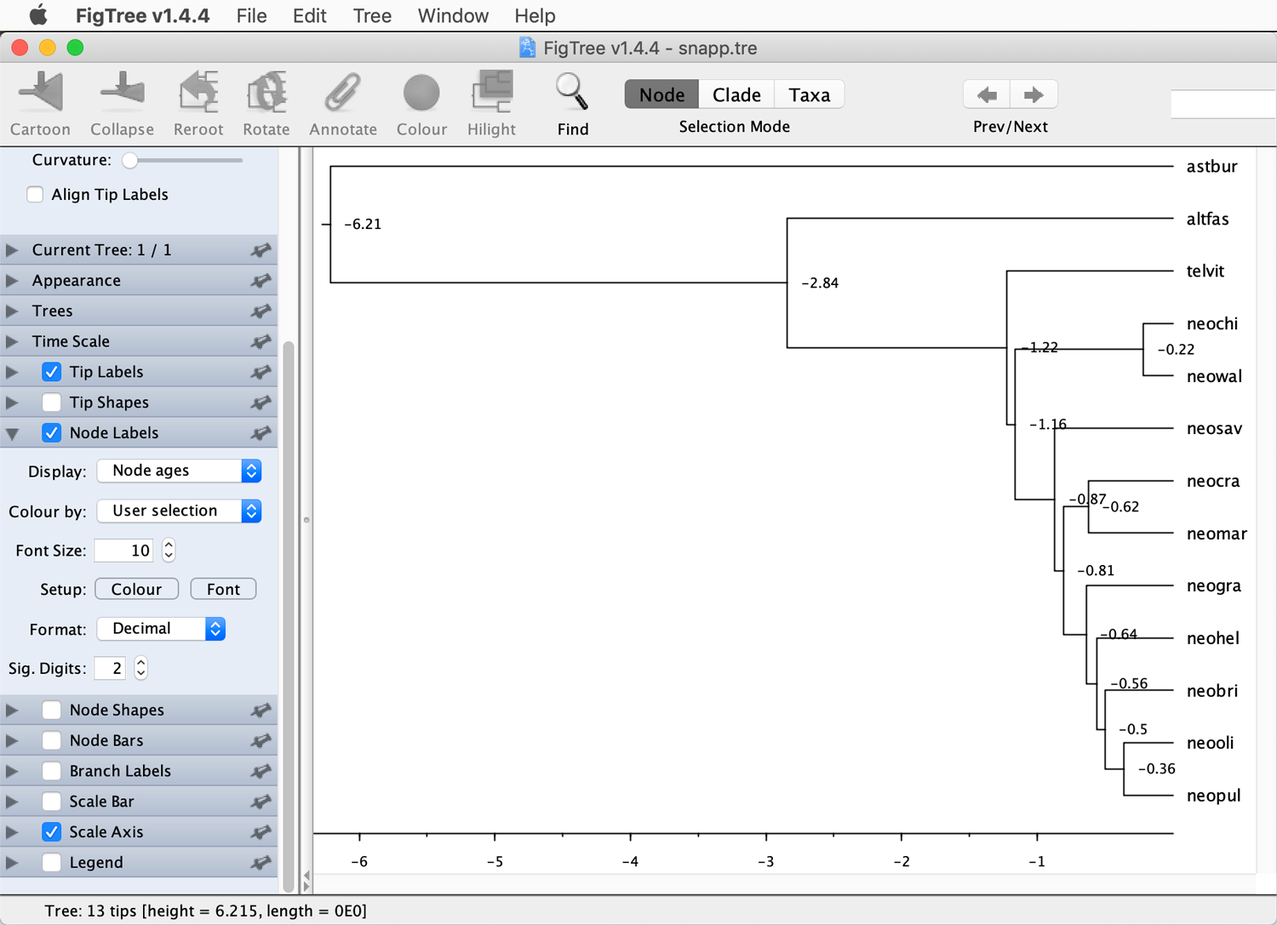
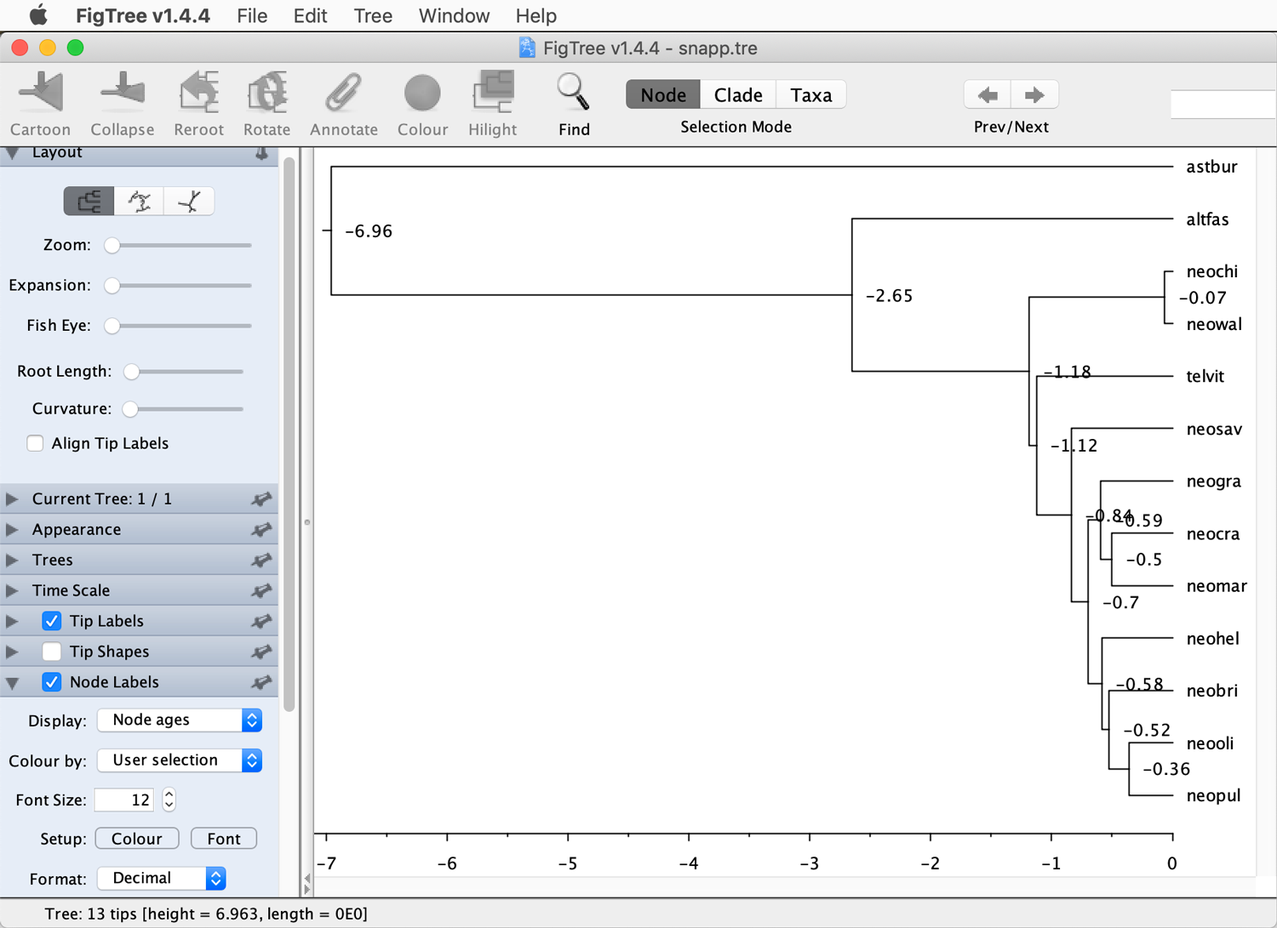
update of divergence time estimation with snp data

diff --git a/divergence_time_estimation_with_snp_data/README.md b/divergence_time_estimation_with_snp_data/README.md
@@ -100,9 +100,9 @@ Based on simulations, we tested the performance of SNAPP with a range of dataset
 		
 	or
 	
-		wget https://raw.githubusercontent.com/ForBioPhylogenomics/tutorials/main/divergence_time_estimation_with_snp_data/data/NC_031969.f5.sub4.vcf
+		wget https://raw.githubusercontent.com/ForBioPhylogenomics/tutorials/main/week2_res/NC_031969.f5.sub4.vcf
 
-As mentioned above and in tutorial [Species-Tree Inference with SNP Data](../species_tree_inference_with_snp_data/README.md), the dataset in file `NC_031969.f5.sub4.vcf` contains SNP data for two individuals per species. To reduce the run time for SNAPP, we are going to generate another version of the same dataset that is reduced to only a single individual per species.
+As mentioned above and in tutorial [Species-Tree Inference with SNP Data](../species_tree_inference_with_snp_data/README.md), the dataset in file `NC_031969.f5.sub4.vcf` contains SNP data for two individuals per species. To reduce the run time for SNAPP, we are going to produce another version of the same dataset that is reduced to only a single individual per species.
 
 * To exclude the individuals "IZA1", "AXD5", "JBD5", "JUI1", "KHA9", "IVF1", "JWH1", "JWG8", "JWH3", "JWH5", "ISA6", "IYA4", and "KFD4" (these were selected because they have more missing data than the other individuals of each species) from a new file named `NC_031969.f5.sub5.vcf`, use the following commands:
 
@@ -111,26 +111,22 @@ As mentioned above and in tutorial [Species-Tree Inference with SNP Data](../spe
 		
 	The reduction of individuals might have led to some sites becoming monomorphic for either the reference or the alternate allele. Some sites might also have no data left for one or more of the species, given that these are now represented by only one instead of two individuals. These could now be excluded these sites again with bcftools, for example with the `bcftools view` option `-e 'AC==0 || AC==AN || F_MISSING > 0.0'`. However, this is not necessary because the `snapp_prep.rb` script, which will be used to write the XML file for SNAPP, will automatically exclude these sites anyway.
 	
-	 **Question 1:** How many SNPs are now left in file `NC_031969.f5.sub5.vcf`? [(see answer)](#q1)
+	 **Question 1:** How many SNPs are left in file `NC_031969.f5.sub5.vcf`? [(see answer)](#q1)
 
-* Download the script [`snapp_prep.rb`](https://raw.githubusercontent.com/mmatschiner/snapp_prep/master/snapp_prep.rb) from github, either by clicking on the link or by using the following command:
+* Download the script `snapp_prep.rb` from GitHub:
 
 		wget https://raw.githubusercontent.com/mmatschiner/snapp_prep/master/snapp_prep.rb
 		
-* Then, to see the options available for generating SNAPP input files with `snapp_prep.rb`, have a look at the help text of the script by using the following commands:
+* To see the options available for generating SNAPP input files with `snapp_prep.rb`, have a look at the help text of the script by using the following commands:
 
 		module load Ruby/2.7.2-GCCcore-9.3.0
 		ruby snapp_prep.rb -h
 		
 	You'll see that `snapp_prep.rb` can write XML files for either SNAPP or SNAPPER (option `-a`), and that it accepts input either in Phylip (with option `-p`) or VCF (option `-v`) format. In addition, the script requires a table file (option `-t`) in which individuals are assigned to species, and a constraint file (option `-c`) in which age constraints for selected divergence events are specified. None of the other options are required, but these can be useful if you need to specify a starting tree (option `-t`) because SNAPP fails to find a suitable starting tree itself, if you want to increase or decrease the default length (500,000 iterations) of the MCMC chain (option `-l`), or if you want to limit the dataset to a certain number of SNPs to reduce the run time (option `-m`). 
 	
-* Examples for the table and constraint files can be found on the [github repository for `snapp_prep.rb`](https://github.com/mmatschiner/snapp_prep). Have a look at these example files; the example table file is named [`example.spc.txt`](https://github.com/mmatschiner/snapp_prep/blob/master/example.spc.txt) and the example constraint file is named [`example.con.txt`](https://github.com/mmatschiner/snapp_prep/blob/master/example.con.txt).
+* Examples for the table and constraint files can be found on the [GitHub repository for `snapp_prep.rb`](https://github.com/mmatschiner/snapp_prep). Have a look at these example files; the example table file is named [`example.spc.txt`](https://github.com/mmatschiner/snapp_prep/blob/master/example.spc.txt) and the example constraint file is named [`example.con.txt`](https://github.com/mmatschiner/snapp_prep/blob/master/example.con.txt).
 
-* To prepare the table file assigning individuals to species, open a new file named `individuals.txt` with a text editor available on Saga, such as Emacs, Vim, or Nano. You could also write the file with a GUI text editor on a local computer, but then the file would need to be copied to Saga afterwards, e.g. with `scp`. To open a new file named `individuals.txt` with Emacs, type the following command (for other text editors, simply replace "emacs" with "vim" or "nano"):
-
-		emacs individuals.txt
-
-* Write the following text to this new file:
+* To prepare the table file assigning individuals to species, open a new file named `individuals.txt` with a text editor available on Saga, and write the following text to this new file:
 
 		species	individual
 		astbur	IZC5
@@ -147,21 +143,19 @@ As mentioned above and in tutorial [Species-Tree Inference with SNP Data](../spe
 		neosav	ISA8
 		neowal	KFD2
 
-* Save and close the file (if using Emacs, the rather complicated key combination to do so is Ctrl-X Ctrl-S Ctrl-X Ctrl-C).
-
-* For the constraint file, we'll need to specify at least one age constraint for a divergence among the 13 cichlid species. For this, we can refer to the results of the analysis with the multi-species coalescent model in tutorial [Bayesian Species-Tree Inference](../bayesian_species_tree_inference/README.md). In that tutorial, the divergence of *Astatotilapia burtoni* ("astbur") and the *Neolamprologus* species was estimated at 6.2666 Ma with a 95% HPD interval from 4.8225 to 7.9049 Ma (if you'ld like to look up these results you can find them in file [`starbeast_species.tre`](data/starbeast_species.tre)). We can approximate this mean and confidence interval with a lognormal distribution centered at 6.2666 Ma that has a standard deviation (in real space) of 0.13. In addition, we could also constrain the first divergence among the species *Neolamprologus brichardi* ("neobri"), *Neolamprologus gracilis* ("neogra"), *Neolamprologus marunguensis* ("neomar"), and *Neolamprologus olivaceus* ("neooli") according to the results of this earlier analysis; however, it is likely that this divergence event would be more precisely estimated with the current SNP dataset. Thus, we are only going to constrain the age of a single node: the divergence of *Astatotilapia burtoni* ("astbur") from the species of the tribe Lamprologini.
+* For the constraint file, we'll need to specify at least one age constraint for a divergence among the 13 cichlid species. For this, we can refer to the results of the analysis with the multi-species coalescent model in tutorial [Bayesian Species-Tree Inference](../bayesian_species_tree_inference/README.md). In that tutorial, the divergence of *Astatotilapia burtoni* ("astbur") and the *Neolamprologus* species was estimated at 7.02 Ma with a 95% HPD interval from 5.41 to 9.13 Ma. We can approximate this mean and confidence interval with a lognormal distribution centered at 7.02 Ma that has a standard deviation (in real space) of 0.13. In addition, we could also constrain the first divergence among the species *Neolamprologus brichardi* ("neobri"), *Neolamprologus gracilis* ("neogra"), *Neolamprologus marunguensis* ("neomar"), and *Neolamprologus olivaceus* ("neooli") according to the results of this earlier analysis; however, it is likely that this divergence event would be more precisely estimated with the current SNP dataset. Thus, we are only going to constrain the age of a single node: the divergence of *Astatotilapia burtoni* ("astbur") from the species of the tribe Lamprologini.
 
 	To write this single age constraint to a constraint file, write the following text to a new file named `constraints.txt`:
 
-		lognormal(0,6.2666,0.13)	crown	astbur,altfas,telvit,neobri,neochi,neocra,neogra,neohel,neomar,neooli,neopul,neosav,neowal
+		lognormal(0,7.02,0.13)	crown	astbur,altfas,telvit,neobri,neochi,neocra,neogra,neohel,neomar,neooli,neopul,neosav,neowal
 		
-	Note that the above line contains three character strings that are delimited with white space (tabs or spaces). The first of the three character strings specifies that a lognormal distribution with an offset of 0, a mean of 6.2666, and a standard deviation (in real space) of 0.13 should be used for the constraint. The second character string ("crown") specifies that the crown divergence of the clade should be constrained rather than the stem divergence (this would be the time at which the clade diverged from its sister group). Finally, the third character string simply lists all species included in the constrained clade, separated by commas. Because the constraint used here applies to the very first divergence of the phylogeny (the root), all species names are listed in the third character string.
+	Note that the above line contains three character strings that are delimited with white space (tabs or spaces). The first of the three character strings specifies that a lognormal distribution with an offset of 0, a mean of 7.02, and a standard deviation (in real space) of 0.13 should be used for the constraint. The second character string ("crown") specifies that the crown divergence of the clade should be constrained rather than the stem divergence (this would be the time at which the clade diverged from its sister group). Finally, the third character string simply lists all species included in the constrained clade, separated by commas. Because the constraint used here applies to the very first divergence of the phylogeny (the root), all species names are listed in the third character string.
 
 	**Question 2:** Can you think of a way how the exact same age calibration could be specified differently? [(see answer)](#q2)
 
 * With the VCF file `NC_031969.f5.sub5.vcf`, the table file, and the constraints file ready, we can now prepare the input file for SNAPP with the script `snapp_prep.rb`. To limit the dataset to 1,000 randomly selected SNPs and to set a chain length of 100,000 MCMC iterations, we'll use the options `-m 1000` and `-l 100000`, respectively. To specify that the XML file should be for SNAPP rather than SNAPPER, option `-a` does not need to be specified because the SNAPP format is produced by default. Thus, use the following command to generate the XML input file for SNAPP:
 
-		srun --ntasks=1 --mem-per-cpu=1G --time=00:01:00 --account=nn9458k --pty ruby snapp_prep.rb -v NC_031969.f5.sub5.vcf -t samples.txt -c constraints.txt -m 1000 -l 100000
+		srun --ntasks=1 --mem-per-cpu=1G --time=00:01:00 --account=nn9458k --pty ruby snapp_prep.rb -v NC_031969.f5.sub5.vcf -t individuals.txt -c constraints.txt -m 1000 -l 100000
 
 	**Question 3:** How many sites useful for SNAPP did the dataset contain after we had reduced it to a single individual per species? [(see answer)](#q3)
 		
@@ -169,7 +163,7 @@ As mentioned above and in tutorial [Species-Tree Inference with SNP Data](../spe
 		
 * The script `snapp_prep.rb` should have written a file named `snapp.xml`. You could open that, for example with `less -S snapp.xml` and read some of the annotations if you'ld like to know more about the settings that we are about to use with SNAPP.
 		
-To "run SNAPP", we actually run BEAST2, either using the GUI on a local computer, or the command-line version on either a local computer or Saga (the latter is recommended). In all cases, the analysis can be sped up by using multiple CPUs, as SNAPP analyses are highly parallelizable. Thus, with e.g. four CPUs available that are all used for the SNAPP analysis, this analysis should take only about a fourth of the time that would be required with a single CPU. When running SNAPP analyses on a server such as Saga, one could even use tens of CPUs simultaneously, which would shorten SNAPP's run times tremendously. To start the analysis for example on four CPUs with the GUI version of BEAST2, you would select "4" from the drop-down menu next to "Thread pool size" as shown in the next screenshot (but this is not needed now; read on).<p align="center"><img src="img/beast1.png" alt="BEAST" width="500"></p>However, it may be more convenient to use the command-line version of BEAST2 that is installed on Saga. Running the analysis on Saga will also allow us to use eight CPUs to speed up the analysis.
+To "run SNAPP", we actually run BEAST2. The analysis can be sped up by using multiple CPUs, as SNAPP analyses are highly parallelizable. Thus, with e.g. four CPUs available that are all used for the SNAPP analysis, this analysis should take only about a fourth of the time that would be required with a single CPU. When running SNAPP analyses on a server such as Saga, one could even use tens of CPUs simultaneously, which would shorten SNAPP's run times tremendously. We will here use 16 CPUs on Saga (which is the maximum for most jobs on Saga) to speed up the analysis.
 
 * Write a Slurm script named `run_snapp.slurm` with the following content to prepare the SNAPP analysis:
 
@@ -182,7 +176,8 @@ To "run SNAPP", we actually run BEAST2, either using the GUI on a local computer
 		#SBATCH --time=2:00:00
 		#
 		# Processor and memory usage:
-		#SBATCH --ntasks=8
+		#SBATCH --ntasks=1
+		#SBATCH --cpus-per-task=16
 		#SBATCH --mem-per-cpu=1G
 		#
 		# Accounting:
@@ -200,7 +195,7 @@ To "run SNAPP", we actually run BEAST2, either using the GUI on a local computer
 		module load Beast/2.6.4-GCC-9.3.0
 
 		# Run snapp.
-		beast -threads 8 snapp.xml
+		beast -threads 16 snapp.xml
 
 * Submit the Slurm script with `sbatch`:
 
@@ -220,7 +215,7 @@ While the SNAPP analysis is running, we will in parallel set up an analysis with
 
 		srun --ntasks=1 --mem-per-cpu=1G --time=00:01:00 --account=nn9458k --pty ruby snapp_prep.rb -a SNAPPER -v NC_031969.f5.sub5.vcf -t individuals.txt -c constraints.txt -m 1000 -l 100000
 		
-	After a few seconds, this should have written a new XML file named `snapper.xml`
+	This should produce a new XML file named `snapper.xml`
 	
 * Prepare a new Slurm script to launch the SNAPPER analysis, by copying the Slurm script for SNAPP:
 
@@ -237,7 +232,8 @@ While the SNAPP analysis is running, we will in parallel set up an analysis with
 		#SBATCH --time=2:00:00
 		#
 		# Processor and memory usage:
-		#SBATCH --ntasks=8
+		#SBATCH --ntasks=1
+		#SBATCH --cpus-per-task=16
 		#SBATCH --mem-per-cpu=1G
 		#
 		# Accounting:
@@ -255,7 +251,7 @@ While the SNAPP analysis is running, we will in parallel set up an analysis with
 		module load Beast/2.6.4-GCC-9.3.0
 
 		# Run snapper.
-		beast -threads 8 snapper.xml
+		beast -threads 16 snapper.xml
 
 	(note that in this case, the command `cat run_snapp.slurm | sed "s/snapp/snapper/g" > run_snapper.slurm` would have produced the same result).
 
@@ -320,7 +316,7 @@ While the SNAPPER analysis (and probably also still the SNAPP analysis) are runn
 <a name="interpretation"></a>
 ## Interpretation of SNAPP results
 
-* Once the SNAPP analysis has completed, download the file `snapp.log` to your local computer with `scp` and open it in Tracer. The Tracer window should then display run statistics similar to those shown in the next screenshot.<p align="center"><img src="img/tracer1.png" alt="Tracer" width="700"></p>You'll see that some low ESS values indicate that the MCMC chain has not yet reached stationarity and that the analysis should ideally have been performed with more MCMC iterations. For our interpretation here, however, we'll assume that the degree of stationarity is sufficient. What you also should notice is that the list of parameters on the left-hand side of the window is now much shorter than it usually is with results of BEAST2 analyses. In fact, only three parameters are shown: The speciation rate ("lambda"), the age of the root of the species tree ("treeHeightLogger"), and the substitution rate ("clockRate"). Note that the substitution rate is not comparable to a genome-wide rate due to ascertainment bias in the SNP dataset, even though SNAPP by default applies an ascertainment-bias correction (see [Bryant et al. 2012](https://academic.oup.com/mbe/article/29/8/1917/1045283) for details). However, one model parameter is not included in the log output yet, namely the population size. Recall that by using script `snapp_prep.rb` to generate the XML file, we implemented a model in which the population sizes of all branches are set to be identical to each other. Thus, if the population sizes had been included in the log file, this file would contain a large number of columns with identical information. To avoid this, the output of the population sizes to the log file has been disabled by `snapp_prep.rb`. However, the population size estimates are still available because they were instead written to the tree file `snapp.trees`, and we can now add them to the log file `snapp.log` using the Ruby script `add_theta_to_log.rb`. Thus, download the script [`add_theta_to_log.rb`](https://raw.githubusercontent.com/mmatschiner/snapp_prep/master/add_theta_to_log.rb) from the github repository for `snapp_prep.rb`, by executing the following command on Saga:
+* Once the SNAPP analysis has completed, download the file `snapp.log` to your local computer with `scp` and open it in Tracer. The Tracer window should then display run statistics similar to those shown in the next screenshot.<p align="center"><img src="img/tracer1.png" alt="Tracer" width="700"></p>You'll see that some low ESS values indicate that the MCMC chain has not yet reached stationarity and that the analysis should ideally have been performed with more MCMC iterations. For our interpretation here, however, we'll assume that the degree of stationarity is sufficient. What you also should notice is that the list of parameters on the left-hand side of the window is now much shorter than it usually is with results of BEAST2 analyses. In fact, only three parameters are shown: The speciation rate ("lambda"), the age of the root of the species tree ("treeHeightLogger"), and the substitution rate ("clockRate"). Note that the substitution rate is not comparable to a genome-wide rate due to ascertainment bias in the SNP dataset, even though SNAPP by default applies an ascertainment-bias correction (see [Bryant et al. 2012](https://doi.org/10.1093/molbev/mss086) for details). However, one model parameter is not included in the log output yet, namely the population size. Recall that by using script `snapp_prep.rb` to generate the XML file, we implemented a model in which the population sizes of all branches are set to be identical to each other. Thus, if the population sizes had been included in the log file, this file would contain a large number of columns with identical information. To avoid this, the output of the population sizes to the log file has been disabled by `snapp_prep.rb`. However, the population size estimates are still available because they were instead written to the tree file `snapp.trees`, and we can now add them to the log file `snapp.log` using the Ruby script `add_theta_to_log.rb`. Thus, download the script `add_theta_to_log.rb` from the GitHub repository for `snapp_prep.rb` to your current directory on Saga:
 
 		wget https://raw.githubusercontent.com/mmatschiner/snapp_prep/master/add_theta_to_log.rb
 		
@@ -328,7 +324,7 @@ While the SNAPPER analysis (and probably also still the SNAPP analysis) are runn
 
 		ruby add_theta_to_log.rb -h
 		
-	You'll see that this script requires four command-line arguments: The names of the log and tree input files, the name of an output file, as well as an estimate for the generation time. The latter is required to calculate an estimate of the effective population size, for which `add_theta_to_log.rb` uses the equation <i>N</i><sub>e</sub> = Theta &div; (4 &times; <i>r</i> &div; <i>n</i><sub>g</sub>), where <i>r</i> is the substitution-rate estimate (= the rate of the strict clock) and <i>n</i><sub>g</sub> is the number of generations per time unit (more details are given in [Stange et al. 2018](https://academic.oup.com/sysbio/advance-article/doi/10.1093/sysbio/syy006/4827616)).
+	You'll see that this script requires four command-line arguments: The names of the log and tree input files, the name of an output file, as well as an estimate for the generation time. The latter is required to calculate an estimate of the effective population size, for which `add_theta_to_log.rb` uses the equation <i>N</i><sub>e</sub> = Theta &div; (4 &times; <i>r</i> &div; <i>n</i><sub>g</sub>), where <i>r</i> is the substitution-rate estimate (= the rate of the strict clock) and <i>n</i><sub>g</sub> is the number of generations per time unit (more details are given in [Stange et al. 2018](https://doi.org/10.1093/sysbio/syy006)).
 	
 * We'll here assume (as in other tutorials) that the generation time of cichlids is three years, and we'll name the output file `snapp_w_popsize.log`. Thus use the following command to run script `add_theta_to_log.rb`:
 
@@ -336,32 +332,34 @@ While the SNAPPER analysis (and probably also still the SNAPP analysis) are runn
 
 * Then, download file `snapp_w_popsize.log` to your local computer and open it also in Tracer. You should see that "theta" and "population_size" have now been added to the list of parameters, as shown in the next screenshot.<p align="center"><img src="img/tracer2.png" alt="Tracer" width="700"></p>
 
-* Select both "clockRate" and "theta" from the list of parameters, click the tab for "Joint-Marginal" at the top right, and remove the tick at the bottom of the panel next to "Sample only". You should then see that both of these parameters are highly correlated, as shown in the next screenshot.<p align="center"><img src="img/tracer3.png" alt="Tracer" width="700"></p>Note that both of these estimates should not be taken as being representative for the whole genome due to ascertainment bias. Because invariant sites are not included in a SNP dataset, this SNP dataset necessarily appears more variable than the whole-genome dataset from which it was derived, and thus the substitution rate of the SNP data appears to be higher than the rate would be if it was averaged over the entire genome. Nevertheless, our simulations in [Stange et al. (2018)](https://academic.oup.com/sysbio/advance-article/doi/10.1093/sysbio/syy006/4827616) have shown that the population-size estimates of SNAPP are actually reliable.
+* Select both "clockRate" and "theta" from the list of parameters, click the tab for "Joint-Marginal" at the top right, and remove the tick at the bottom of the panel next to "Sample only". You should then see that both of these parameters are highly correlated, as shown in the next screenshot.<p align="center"><img src="img/tracer3.png" alt="Tracer" width="700"></p>Note that both of these estimates should not be taken as being representative for the whole genome due to ascertainment bias. Because invariant sites are not included in a SNP dataset, this SNP dataset necessarily appears more variable than the whole-genome dataset from which it was derived, and thus the substitution rate of the SNP data appears to be higher than the rate would be if it was averaged over the entire genome. Nevertheless, our simulations in [Stange et al. (2018)](https://doi.org/10.1093/sysbio/syy006) have shown that the population-size estimates of SNAPP are actually reliable.
 
 * Select "population_size" from the list of parameters and click on the "Estimates" tab to see summary information and a histogram for the population-size estimate, as shown in the next screenshot.<p align="center"><img src="img/tracer4.png" alt="Tracer" width="700"></p>
 	
-	**Question 6 (if you already did tutorial Bayesian Species-Tree Inference):** How does this estimate of the population size of Lake Tanganyika cichlid fishes compare to that assumed in tutorial [Bayesian Species-Tree Inference](../bayesian_species_tree_inference/README.md)? [(see answer)](#q6)
+	**Question 6:** How does this estimate of the population size of Lake Tanganyika cichlid fishes compare to that assumed in tutorial [Bayesian Species-Tree Inference](../bayesian_species_tree_inference/README.md)? [(see answer)](#q6)
 
-* Next, download the file `snapp.trees` from Saga to your local computer and open it in the software Densitree from the BEAST2 package (it can be found in the same directory as the GUI versions of BEAST2 and BEAUti) to visualize the full set of posterior trees sampled by SNAPP, as shown in the next screenshot.<p align="center"><img src="img/densitree1.png" alt="DensiTree" width="600"></p> You should see that not all posterior trees share the same topology, indicating remaining uncertainty in the relationships of the 13 cichlid species. In particular, the relationships of *Telmatochromis vittatus* ("telvit") appear ambiguous, as this species is placed next to *Neolamprologus walteri* ("neowal") and *Neolamprologus chitamwebwai* ("neochi") in some of the posterior trees, but apparently closer to the remaining *Neolamprologus* species or ancestral to all of them in the other posterior trees. The relationships among the five species *Neolamprologus brichardi* ("neobri"), *Neolamprologus olivaceous* ("neooli"), *Neolamprologus pulcher* ("neopul"), *Neolamprologus helianthus* ("neohel"), and *Neolamprologus gracilis* ("neogra") also appear uncertain.
+* Next, download the file `snapp.trees` from Saga to your local computer and open it in the software Densitree from the BEAST2 package (it can be found in the same directory as the GUI versions of BEAST2 and BEAUti) to visualize the full set of posterior trees sampled by SNAPP, as shown in the next screenshot.<p align="center"><img src="img/densitree1.png" alt="DensiTree" width="700"></p> You should see that not all posterior trees share the same topology, indicating remaining uncertainty in the relationships of the 13 cichlid species. In particular, the relationships of *Telmatochromis vittatus* ("telvit") appear ambiguous, as this species is placed next to *Neolamprologus walteri* ("neowal") and *Neolamprologus chitamwebwai* ("neochi") in some of the posterior trees, but apparently closer to the remaining *Neolamprologus* species or ancestral to all of them in the other posterior trees. The relationships among the five species *Neolamprologus brichardi* ("neobri"), *Neolamprologus olivaceous* ("neooli"), *Neolamprologus pulcher* ("neopul"), *Neolamprologus helianthus* ("neohel"), and *Neolamprologus gracilis* ("neogra") also appear uncertain.
 
-* Also quantify the posterior probabilities of clades as node support in a maximum-clade-credibility tree using TreeAnnotator on Saga. Set the burnin percentage to 10, choose mean heights as node heights, select `snapp.trees` as the input file, and name the output file `snapp.tre`:
+* Also quantify the posterior probabilities of clades as node support in a maximum-clade-credibility tree using TreeAnnotator on Saga. Set the burnin percentage to 10, choose mean heights as node heights, select `snapp.trees` as the input file, and name the output file "snapp.tre":
 
 		srun --ntasks=1 --mem-per-cpu=1G --time=00:01:00 --account=nn9458k --pty treeannotator -burnin 10 -heights mean snapp.trees snapp.tre
 
 
 * Download file `snapp.tre` from Saga to your local computer with `scp` and open it in FigTree.
 
-* Display the "posterior" node support values as node labels, as shown in the screenshot below.<p align="center"><img src="img/figtree1.png" alt="FigTree" width="600"></p> The posterior probabilities for the different clades support the interpretation based on the Densitree plot made above: The position of *Telmatochromis vittatus* ("telvit") is uncertain, as are the relationships among the five species *Neolamprologus brichardi* ("neobri"), *Neolamprologus olivaceous* ("neooli"), *Neolamprologus pulcher* ("neopul"), *Neolamprologus helianthus* ("neohel"), and *Neolamprologus gracilis* ("neogra"). However, the visualization in FigTree also shows that a clade comprising the three species *Neolamprologus brichardi* ("neobri"), *Neolamprologus olivaceous* ("neooli"), and *Neolamprologus pulcher* ("neopul") is actually well supported; this has not been apparent in DensiTree.
+* Display the "posterior" node support values as node labels, as shown in the screenshot below.<p align="center"><img src="img/figtree1.png" alt="FigTree" width="700"></p>The posterior probabilities for the different clades support the interpretation based on the Densitree plot made above: The position of *Telmatochromis vittatus* ("telvit") is uncertain, and the placement of *Neolamprologus brichardi* ("neobri") as the sister to a clade comprising *Neolamprologus olivaceous* ("neooli") and *Neolamprologus pulcher* ("neopul") is also poorly supported. However, the visualization in FigTree also shows that a clade comprising the three species *Neolamprologus brichardi* ("neobri"), *Neolamprologus olivaceous* ("neooli"), and *Neolamprologus pulcher* ("neopul") is actually well supported; this has not been apparent in DensiTree.
 	
-	**Question 7 (if you already did tutorial Species-Tree Inference with SNP Data):** Is the species-tree topology estimated with SNAPP concordant with that estimated with SVDQuartets in tutorial [Species-Tree Inference with SNP Data](../species_tree_inference_with_snp_data/README.md)? [(see answer)](#q7)
+	**Question 7:** Is the species-tree topology estimated with SNAPP concordant with that estimated with SVDQuartets in tutorial [Species-Tree Inference with SNP Data](../species_tree_inference_with_snp_data/README.md)? [(see answer)](#q7)
 	
-	**Question 8 (if you already did tutorial Bayesian Species-Tree Inference):** How does the divergence-time estimate for *Neolamprologus marunguensis* ("neomar"), *Neolamprologus gracilis* ("neogra"), *Neolamprologus brichardi* ("neobri"), and *Neolamprologus olivaceous* ("neooli") compare to that obtained with StarBEAST2 in tutorial [Bayesian Species-Tree Inference](bayesian_species_tree_inference/README.md)? [(see answer)](#q8)
+	**Question 8:** How does the divergence-time estimate for *Neolamprologus marunguensis* ("neomar"), *Neolamprologus gracilis* ("neogra"), *Neolamprologus brichardi* ("neobri"), and *Neolamprologus olivaceous* ("neooli") compare to that obtained with StarBEAST2 in tutorial [Bayesian Species-Tree Inference](bayesian_species_tree_inference/README.md)? [(see answer)](#q8)
 
 Despite the remaining uncertainty in the relationships among the *Neolamprologus* species, the SNAPP analysis has been valuable as it allowed us to estimate an average population size for species of the tribe Lamprologini, and improved the estimates of divergence times within the group.
 
 
 <a name="comparison"></a>
 ## Comparison of results obtained with SNAPP and SNAPPER
+
+<!--XXX This needs to be continued when the SNAPPER bugs are solved XXX-->
 
 * When the SNAPPER analyses have finished on Saga, add the population size to files `snapper.log` and `snapper2.log`, as before for `snapp.log`:
 
@@ -388,14 +386,14 @@ Despite the remaining uncertainty in the relationships among the *Neolamprologus
 
 * **Question 1:** 65,325 SNPs should now remain in the filtered dataset in file `NC_031969.f5.sub5.vcf`, which is more than sufficient for a phylogenetic analysis with SNAPP. To see the number of SNPs in this VCF file, you can use the the following command:
 
-		srun --ntasks=1 --mem-per-cpu=1G --time=00:01:00 --account=nn9458k --pty bcftools view -H NC_031969.f5.sub6.vcf | wc -l
+		bcftools view -H NC_031969.f5.sub5.vcf | wc -l
 		
 		
 <a name="q2"></a>
 
 * **Question 2:** Because the crown divergence of a clade is identical to the stem divergences of the two descending clades, we could also specify the same age constraint with the following line:
 
-		lognormal(0,6.2666,0.13)  stem altfas,telvit,neobri,neochi,neocra,neogra,neohel,neomar,neooli,neopul,neosav,neowal
+		lognormal(0,7.02,0.13)  stem altfas,telvit,neobri,neochi,neocra,neogra,neohel,neomar,neooli,neopul,neosav,neowal
 		
 	Note that "stem" is now specified as the second character string instead of "crown" and that "astbur" is now missing from the list of species in the third character string.
 
@@ -407,7 +405,7 @@ Despite the remaining uncertainty in the relationships among the *Neolamprologus
 
 <a name="q4"></a>
 
-* **Question 4:** You should be able to estimate the time required for the analysis by comparing the first column of the output in file `run_snapp.out`, which reports the current MCMC iteration, with the time that the analysis has already been running. After about 3 minutes, the MCMC should have reached around iteration 5,000, which means that about an hour will be required to complete the 100,000 iterations that we specified as the length of the MCMC. After about 6,000 iterations, the last column of the output in file `run_snapp.out` should also give an estimate of the run time required for 1 million generations. Dividing this by ten should also result in a projected run time of around 1 hour.
+* **Question 4:** You should be able to estimate the time required for the analysis by comparing the first column of the output in file `run_snapp.out`, which reports the current MCMC iteration, with the time that the analysis has already been running. After a minute, the MCMC should have reached around iteration 3,000, which means that about half an hour will be required to complete the 100,000 iterations that we specified as the length of the MCMC. After about 6,000 iterations, the last column of the output in file `run_snapp.out` should also give an estimate of the run time required for 1 million generations. Dividing this by ten should also result in a projected run time of around half an hour.
 
 
 <a name="q5"></a>
@@ -417,7 +415,7 @@ Despite the remaining uncertainty in the relationships among the *Neolamprologus
 
 <a name="q6"></a>
 
-* **Question 6:** Recall that in tutorial [Bayesian Species-Tree Inference](../bayesian_species_tree_inference/README.md), the population-size parameter was fixed in the analysis with the multi-species coalescent model according to an estimate published by [Meyer et al. (2017)](https://academic.oup.com/sysbio/article/66/4/531/2670093). In this study, [Meyer et al. (2017)](https://academic.oup.com/sysbio/article/66/4/531/2670093) reported that "effective population sizes (<i>N</i><sub>e</sub>) estimated with the multispecies coalescent model ranged between 3.6 &times; 10<sup>4</sup> and 8.1 &times; 10<sup>5</sup>, assuming a mean generation times of 3 years for cichlid fishes". Most of these population-size estimates in [Meyer et al. (2017)](https://academic.oup.com/sysbio/article/66/4/531/2670093) were around 3.3 &times; 10<sup>5</sup>, therefore this value was used in tutorial [Bayesian Species-Tree Inference](../bayesian_species_tree_inference/README.md). In comparison to this population size assumed in the other tutorial, the current population-size estimate based on the SNAPP analysis, with a mean of 1.1 &times; 10<sup>5</sup> and a 95% HPD interval ranging from 8.6 &times; 10<sup>4</sup> to 1.5 &times; 10<sup>5</sup>, is much smaller.
+* **Question 6:** Recall that in tutorial [Bayesian Species-Tree Inference](../bayesian_species_tree_inference/README.md), the population-size parameter was fixed in the analysis with the multi-species coalescent model according to an estimate published by [Meyer et al. (2017)](https://doi.org/10.1093/sysbio/syw069). In this study, Meyer et al. (2017) reported that "effective population sizes (<i>N</i><sub>e</sub>) estimated with the multispecies coalescent model ranged between 3.6 &times; 10<sup>4</sup> and 8.1 &times; 10<sup>5</sup>, assuming a mean generation times of 3 years for cichlid fishes". Most of these population-size estimates in Meyer et al. (2017) were around 3.3 &times; 10<sup>5</sup>, therefore this value was used in tutorial [Bayesian Species-Tree Inference](../bayesian_species_tree_inference/README.md). In comparison to this population size assumed in the other tutorial, the current population-size estimate based on the SNAPP analysis, with a mean of 1.1 &times; 10<sup>5</sup> and a 95% HPD interval ranging from 8.4 &times; 10<sup>4</sup> to 1.5 &times; 10<sup>5</sup>, is much smaller.
 
 
 <a name="q7"></a>
@@ -427,4 +425,4 @@ Despite the remaining uncertainty in the relationships among the *Neolamprologus
 
 <a name="q8"></a>
 
-* **Question 8:** Recall that the divergence time of the four species *Neolamprologus marunguensis* ("neomar"), *Neolamprologus gracilis* ("neogra"), *Neolamprologus brichardi* ("neobri"), and *Neolamprologus olivaceous* ("neooli") was estimated around 0.93 Ma in the analysis with StarBEAST2 in tutorial [Bayesian Species-Tree Inference](bayesian_species_tree_inference/README.md). In contrast, the first divergence of the clade comprising these four species was estimated with SNAPP at a slightly more recent time, around 0.81 Ma, as shown in the screenshot below. The 95% HPD interval for this age estimate ranges from 1.05 to 0.6 Ma (select "height\_95%\_HPD" instead of "Node ages" from the drop-down menu to see these). In contrast, the 95% HPD interval for this divergence time in the StarBEAST2 analysis was wider and ranged from 0.42 to 1.44 Ma, which thus includes the entire 95% HPD interval of the SNAPP analysis. This indicates that the two analyses do not disagree with each other regarding this divergence time but that the StarBEAST2 analysis was not able to estimate it as precisely as the SNAPP analysis.<p align="center"><img src="img/figtree2.png" alt="FigTree" width="600"></p>
+* **Question 8:** Recall that the divergence time of the four species *Neolamprologus marunguensis* ("neomar"), *Neolamprologus gracilis* ("neogra"), *Neolamprologus brichardi* ("neobri"), and *Neolamprologus olivaceous* ("neooli") was estimated around 1.22 Ma in the analysis with StarBEAST2 in tutorial [Bayesian Species-Tree Inference](bayesian_species_tree_inference/README.md). In contrast, the first divergence of the clade comprising these four species was estimated with SNAPP at a slightly more recent time, around 0.70 Ma, as shown in the screenshot below. The 95% HPD interval for this age estimate ranges from 0.50 to 0.91 Ma (select "height\_95%\_HPD" instead of "Node ages" from the drop-down menu to see these). In contrast, the 95% HPD interval for this divergence time in the StarBEAST2 analysis was wider and ranged from 0.54 to 1.86 Ma, which thus includes almost the entire 95% HPD interval of the SNAPP analysis. This indicates that the two analyses do not disagree with each other regarding this divergence time but that the StarBEAST2 analysis was not able to estimate it as precisely as the SNAPP analysis.<p align="center"><img src="img/figtree2.png" alt="FigTree" width="700"></p>

diff --git a/README.md b/README.md
@@ -65,6 +65,8 @@ Each day we will begin at 9 am and end at around 5:30 pm. In between, we will ha
 
 * [Whole-Genome Alignment](XXX)<br>A tutorial on repeat masking and whole-genome alignment of assembled genomes
 
+* [Maximum-Likelihood Analysis of Species Networks](ml_analysis_of_species_networks/README.md)<br>A tutorial on maximum-likelihood phylogenetic analysis of species networks
+
 * [Bayesian Analysis of Species Networks](bayesian_analysis_of_species_networks/README.md)<br>A tutorial on Bayesian phylogenetic analysis of species networks
 
 #### Thursday
